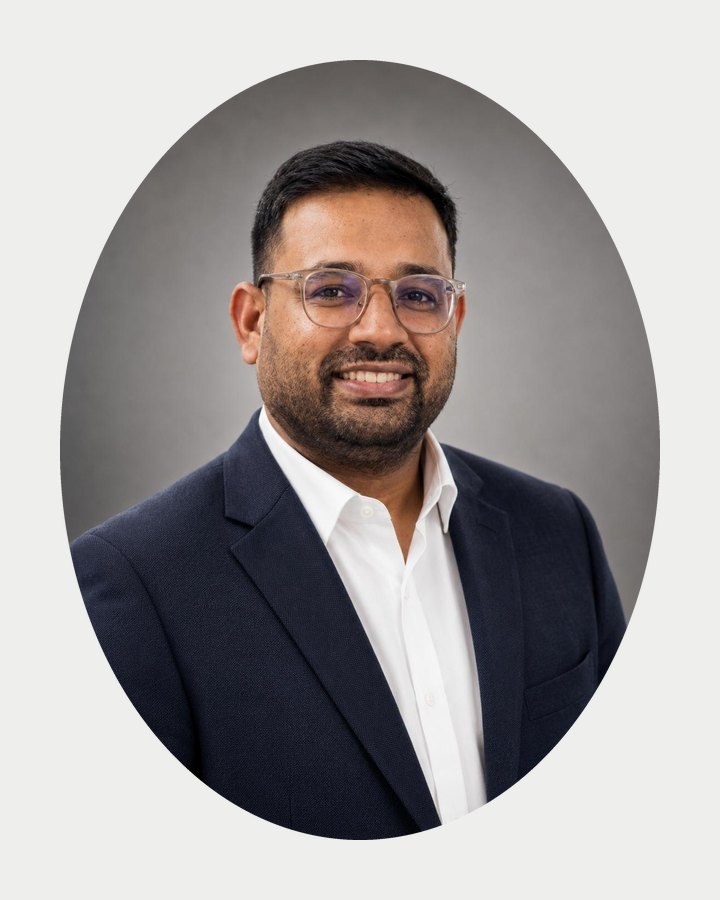
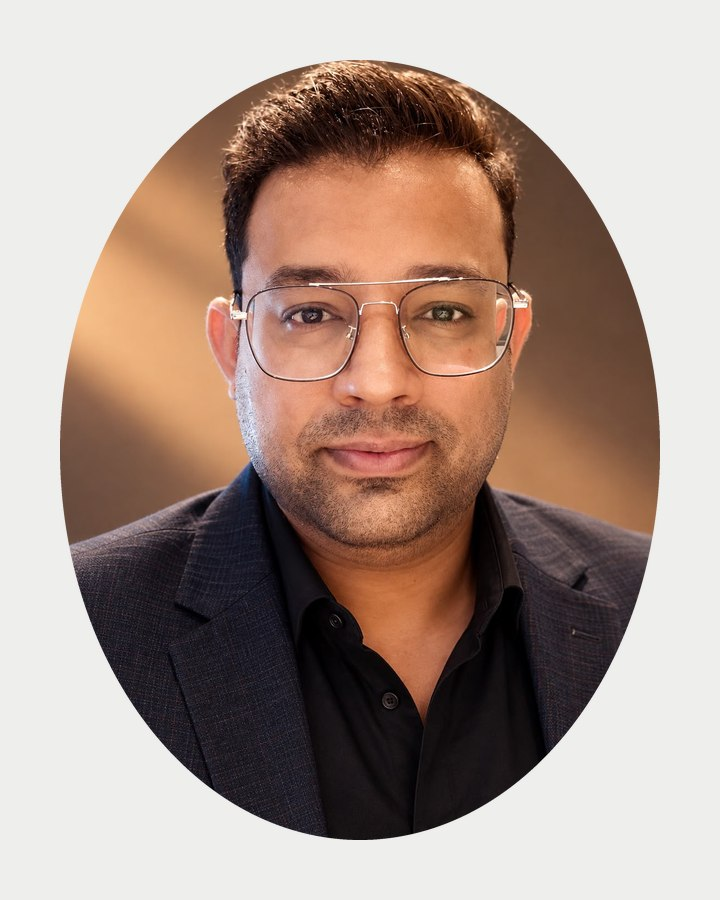
Update Ankit Pandey's portrait with the new headshot

diff --git a/index.html b/index.html
@@ -14,7 +14,7 @@
   <link rel="preconnect" href="https://fonts.googleapis.com">
   <link rel="preconnect" href="https://fonts.gstatic.com" crossorigin>
   <link href="https://fonts.googleapis.com/css2?family=Plus+Jakarta+Sans:wght@400;500;600;700;800&display=swap" rel="stylesheet">
-  <link rel="stylesheet" href="assets/css/style.css?v=202609222310">
+  <link rel="stylesheet" href="assets/css/style.css?v=202609242219">
   <script type="application/ld+json">
   {
     "@context": "https://schema.org",
@@ -547,8 +547,8 @@
   <button class="reel-modal__close" type="button" data-reel-close aria-label="Close showreel"><svg viewBox="0 0 24 24"><path d="M6 6l12 12M18 6L6 18" stroke-linecap="round"/></svg></button>
   <video class="reel-modal__video" controls playsinline preload="none" poster="assets/video/showreel-poster.jpg"><source src="assets/video/showreel.mp4" type="video/mp4"></video>
 </div>
-<script src="assets/js/projects.js?v=202609222310"></script>
-<script src="assets/js/casestudies.js?v=202609222310"></script>
-<script src="assets/js/main.js?v=202609222310"></script>
+<script src="assets/js/projects.js?v=202609242219"></script>
+<script src="assets/js/casestudies.js?v=202609242219"></script>
+<script src="assets/js/main.js?v=202609242219"></script>
 </body>
 </html>

diff --git a/case-studies.html b/case-studies.html
@@ -14,7 +14,7 @@
   <link rel="preconnect" href="https://fonts.googleapis.com">
   <link rel="preconnect" href="https://fonts.gstatic.com" crossorigin>
   <link href="https://fonts.googleapis.com/css2?family=Plus+Jakarta+Sans:wght@400;500;600;700;800&display=swap" rel="stylesheet">
-  <link rel="stylesheet" href="assets/css/style.css?v=202609222310">
+  <link rel="stylesheet" href="assets/css/style.css?v=202609242219">
 </head>
 <body>
 
@@ -115,8 +115,8 @@
   <a href="mailto:info@thearcusdesignbuild.com"><svg viewBox="0 0 24 24"><rect x="3" y="5" width="18" height="14" rx="2"/><path d="M3 7l9 6 9-6"/></svg>Email</a>
 </nav>
 
-<script src="assets/js/projects.js?v=202609222310"></script>
-<script src="assets/js/casestudies.js?v=202609222310"></script>
-<script src="assets/js/main.js?v=202609222310"></script>
+<script src="assets/js/projects.js?v=202609242219"></script>
+<script src="assets/js/casestudies.js?v=202609242219"></script>
+<script src="assets/js/main.js?v=202609242219"></script>
 </body>
 </html>

diff --git a/work.html b/work.html
@@ -14,7 +14,7 @@
   <link rel="preconnect" href="https://fonts.googleapis.com">
   <link rel="preconnect" href="https://fonts.gstatic.com" crossorigin>
   <link href="https://fonts.googleapis.com/css2?family=Plus+Jakarta+Sans:wght@400;500;600;700;800&display=swap" rel="stylesheet">
-  <link rel="stylesheet" href="assets/css/style.css?v=202609222310">
+  <link rel="stylesheet" href="assets/css/style.css?v=202609242219">
 </head>
 <body>
 
@@ -117,7 +117,7 @@
   <a href="mailto:info@thearcusdesignbuild.com"><svg viewBox="0 0 24 24"><rect x="3" y="5" width="18" height="14" rx="2"/><path d="M3 7l9 6 9-6"/></svg>Email</a>
 </nav>
 
-<script src="assets/js/projects.js?v=202609222310"></script>
-<script src="assets/js/main.js?v=202609222310"></script>
+<script src="assets/js/projects.js?v=202609242219"></script>
+<script src="assets/js/main.js?v=202609242219"></script>
 </body>
 </html>
